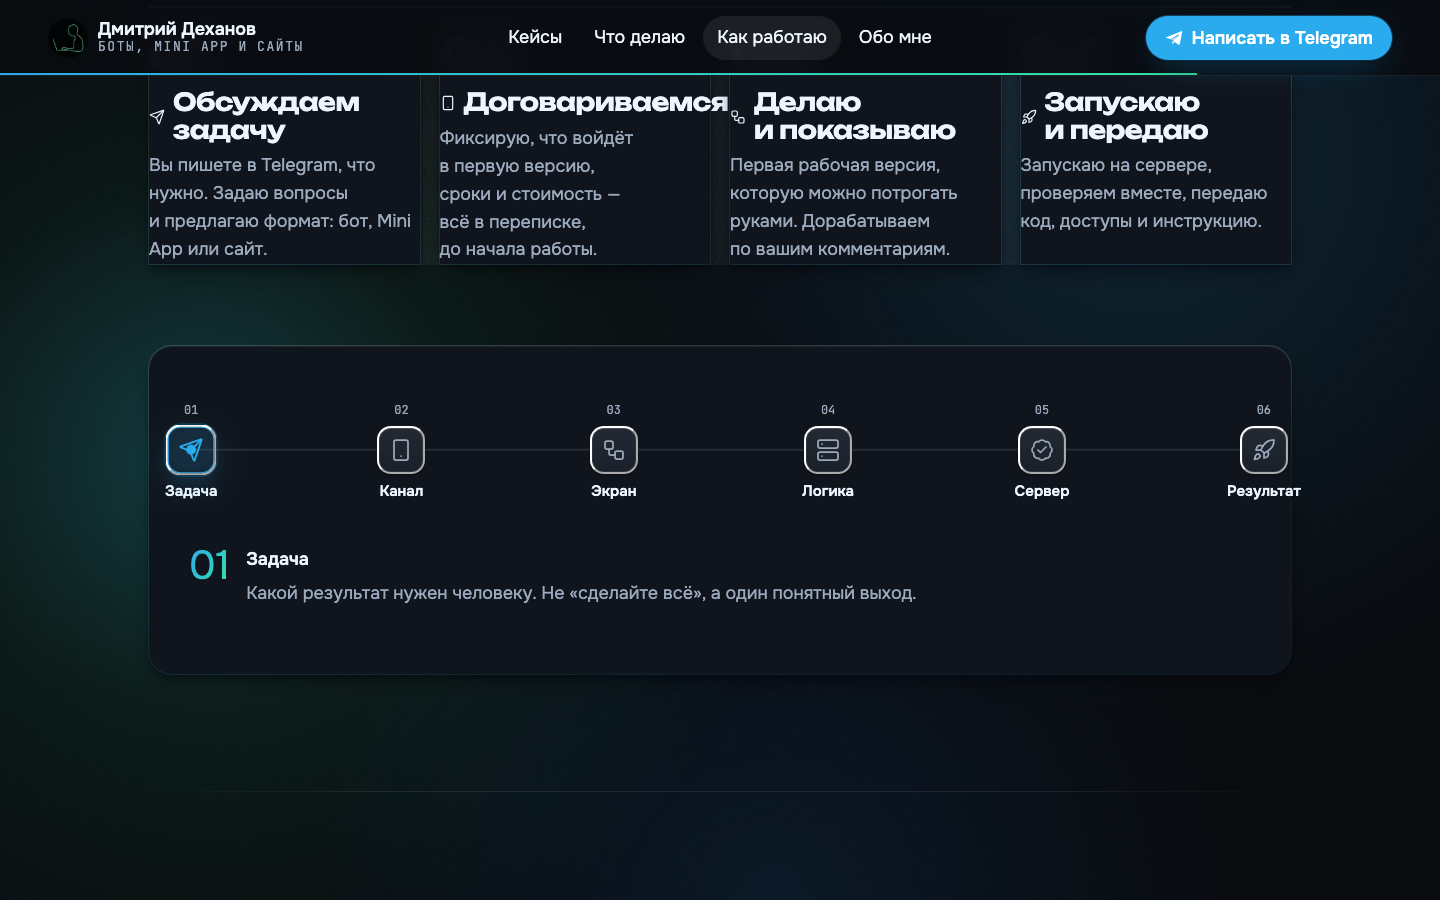
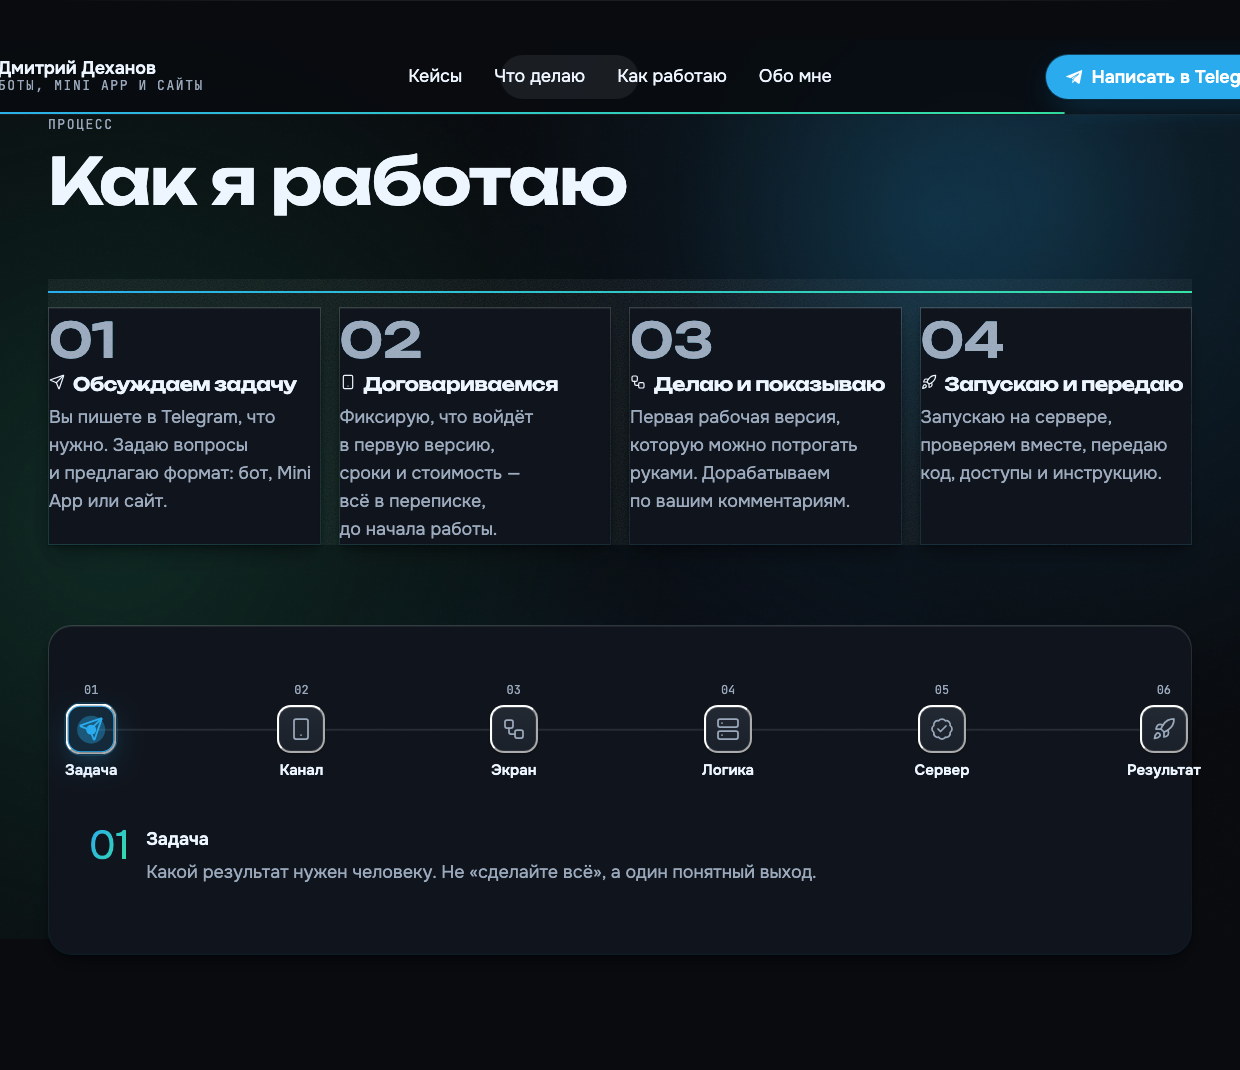
fix(process): keep step titles inside their cards
The step headings were one flex line, so the longest title ran into the next card. Each title now sits beside its icon and wraps inside the card.

diff --git a/src/styles/globals.css b/src/styles/globals.css
@@ -2383,10 +2383,10 @@ html.is-locked .float-cta {
 .steps li p { margin-top: 8px; color: var(--muted); }
 
 .steps h3 {
-  font-size: clamp(1.25rem, 1.7vw, 1.625rem);
-  line-height: 1.12;
+  font-size: clamp(1.05rem, 1.25vw, 1.35rem);
+  line-height: 1.2;
   margin-top: 10px;
-  overflow-wrap: normal;
+  overflow-wrap: break-word;
   hyphens: manual;
 }
 
@@ -3024,7 +3024,17 @@ section + section::before {
 .facts li p:last-child { grid-column: 2; }
 .facts li .icon-tile { grid-row: 1 / span 2; }
 
-.steps h3,
+.steps h3 {
+  display: grid;
+  grid-template-columns: 16px minmax(0, 1fr);
+  gap: 8px;
+  align-items: start;
+  min-width: 0;
+}
+
+.steps h3 span { min-width: 0; }
+.steps li { min-width: 0; }
+
 .lightbox__close,
 .cta__mail {
   display: flex;

diff --git a/src/components/WorkProcess.tsx b/src/components/WorkProcess.tsx
@@ -21,7 +21,7 @@ export function WorkProcess() {
               <p className="steps__num grad-text">{step.id}</p>
               <h3>
                 {STEP_ICONS[index] ? <Icon name={STEP_ICONS[index]} size={16} /> : null}
-                {step.title}
+                <span>{step.title}</span>
               </h3>
               <p>{step.text}</p>
             </li>
